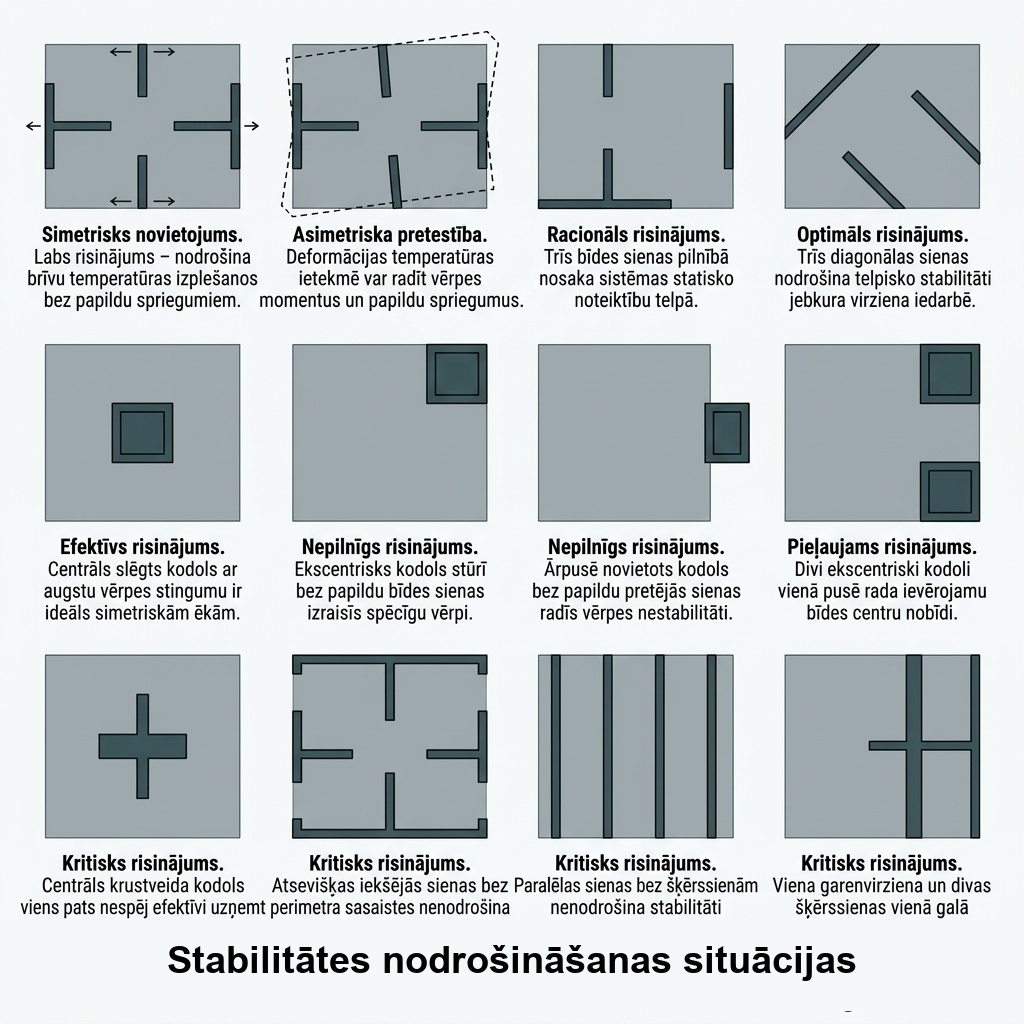
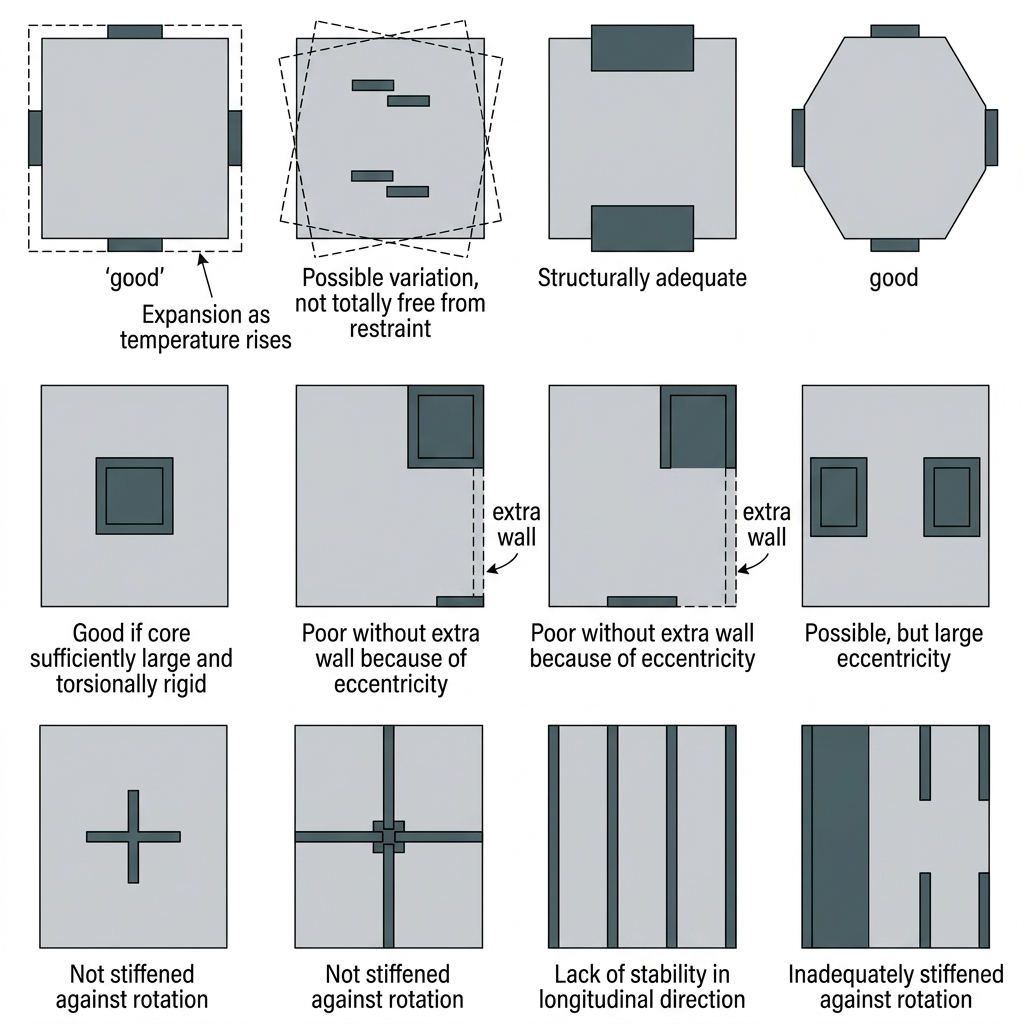
Atjaunota building stability layout diagramma angliski un pievienoti skaidrojumi latviski

diff --git a/src/06-shemas.md b/src/06-shemas.md
@@ -16,6 +16,30 @@ Konstruktīvās shēmas izvēle nosaka būves slodžu pārnesi no jumta un stāv
 
 ![Telpiskās noturības shēmas](images/ch06/img013.jpg)
 
+### Stabilitātes nodrošināšanas situāciju analīze (Skaidrojumi shēmai)
+
+Kā topošajam vai praktizējošam inženierim ir svarīgi izprast, ka telpisko stabilitāti nevar nodrošināt, vienkārši izvietojot bīdes sienas vai kodolus jebkurā ēkas vietā. Ir jāizvērtē slodžu pārvades ceļš, materiālu deformācijas (piemēram, temperatūras izplešanās) un, pats galvenais, **vērpes (rotācijas) ietekme**.
+
+Zemāk apkopoti tehniski skaidrojumi katrai no shēmā attēlotajām situācijām:
+
+#### 1. Rinda: Temperatūras deformācijas un statiskā noteiktība
+*   **1. situācija (good):** Simetrisks 4 bīdes sienu novietojums uz ēkas perimetra. Šis ir teicams risinājums, jo ļauj ēkai simetriski un brīvi izplesties temperatūras ietekmē uz visām pusēm (dashed line), neradot papildu spriegumus konstrukcijās.
+*   **2. situācija (Possible variation):** Asimetriska sienu izvietojuma gadījumā temperatūras deformācijas ir ierobežotas. Sienu reakcijas rada vērpes momentus un papildu spriegumus pārseguma diskā, kas var izraisīt plaisāšanu.
+*   **3. situācija (Structurally adequate):** Minimālais nepieciešamais stinguma sienu skaits pareizai telpiskās stabilitātes nodrošināšanai (2 vertikālas, 1 horizontāla). Sistēma ir statiski noteikta un spēj uzņemt spēkus abos virzienos, kā arī novērst rotāciju.
+*   **4. situācija (good):** Trīs diagonāli izvietotas bīdes sienas (piemēram, trīsšķautņu ēkā) nodrošina pilnvērtīgu telpisko stabilitāti un pretestību pret rotāciju jebkura virziena vēja slodzei.
+
+#### 2. Rinda: Stinguma kodolu (šahtu) novietojums un ekscentritāte
+*   **5. situācija (Good if core...):** Centrāls, slēgts liftu/kāpņu kodols. Šis ir ļoti efektīvs risinājums, ja kodols ir pietiekami liels un tam ir augsts vērpes stingums (torsional rigidity). Tas ir ideāli piemērots izteikti simetriskām ēkām.
+*   **6. situācija (Poor without extra wall...):** Viens kodols stūrī. Horizontālas slodzes gadījumā veidejas liela ekscentritāte starp vēja slodzes rezultējošo spēku un ēkas stinguma centru. Bez papildu bīdes sienas (extra wall) pretējā pusē ēka tiks pakļauta spēcīgai rotācijai.
+*   **7. situācija (Poor without extra wall...):** Kodols novietots ārpus ēkas garās malas vidusdaļas. Tāpat kā 6. gadījumā, veidojas liela ekscentritāte. Lai to kompensētu un novērstu vērpi, pretējā fasādē ir nepieciešama papildu stinguma siena.
+*   **8. situācija (Possible, but large eccentricity):** Divi kodoli izvietoti vienā ēkas pusē. Šāds risinājums ir pieļaujams, taču tas rada ievērojamu stinguma centra nobīdi (ekscentritāti) pret ēkas ģeometrisko centru.
+
+#### 3. Rinda: Vērpes nestabilitāte un nepietiekams stingums
+*   **9. situācija (Not stiffened against rotation):** Krustveida siena ēkas centrā. Lai gan tā nodrošina stabilitāti bīdē abos virzienos, šādam novietojumam ir ļoti mazs inerces moments pret rotāciju, tāpēc ēka nav aizsargāta pret vērpi.
+*   **10. situācija (Not stiffened against rotation):** Trīs atsevišķi bīdes sienu segmenti, kas krustojas vienā punktā. Analogi kā 9. situācijā, šis izkārtojums nenodrošina pietiekamu plecu vērpes momentu uzņemšanai.
+*   **11. situācija (Lack of stability...):** Paralēlas sienas, kas orientētas tikai vienā virzienā. Ēkai ir izcila stabilitāte šķērsvirzienā, bet pilnībā trūkst stabilitātes garenvirzienā (longitudinal direction) — ēka sabruks kā kāršu namiņš.
+*   **12. situācija (Inadequately stiffened...):** Viena garenvirziena siena kreisajā pusē un divas šķērssienas labajā pusē. Lai gan bīdes pretestība ir abos virzienos, sienu novietojums ir pārāk asimetrisks un nepietiekami pasargā ēku pret rotāciju ap kreiso atbalsta punktu.
+
 ---
 
 ## Darbības principi lineāriem pārseguma elementiem
